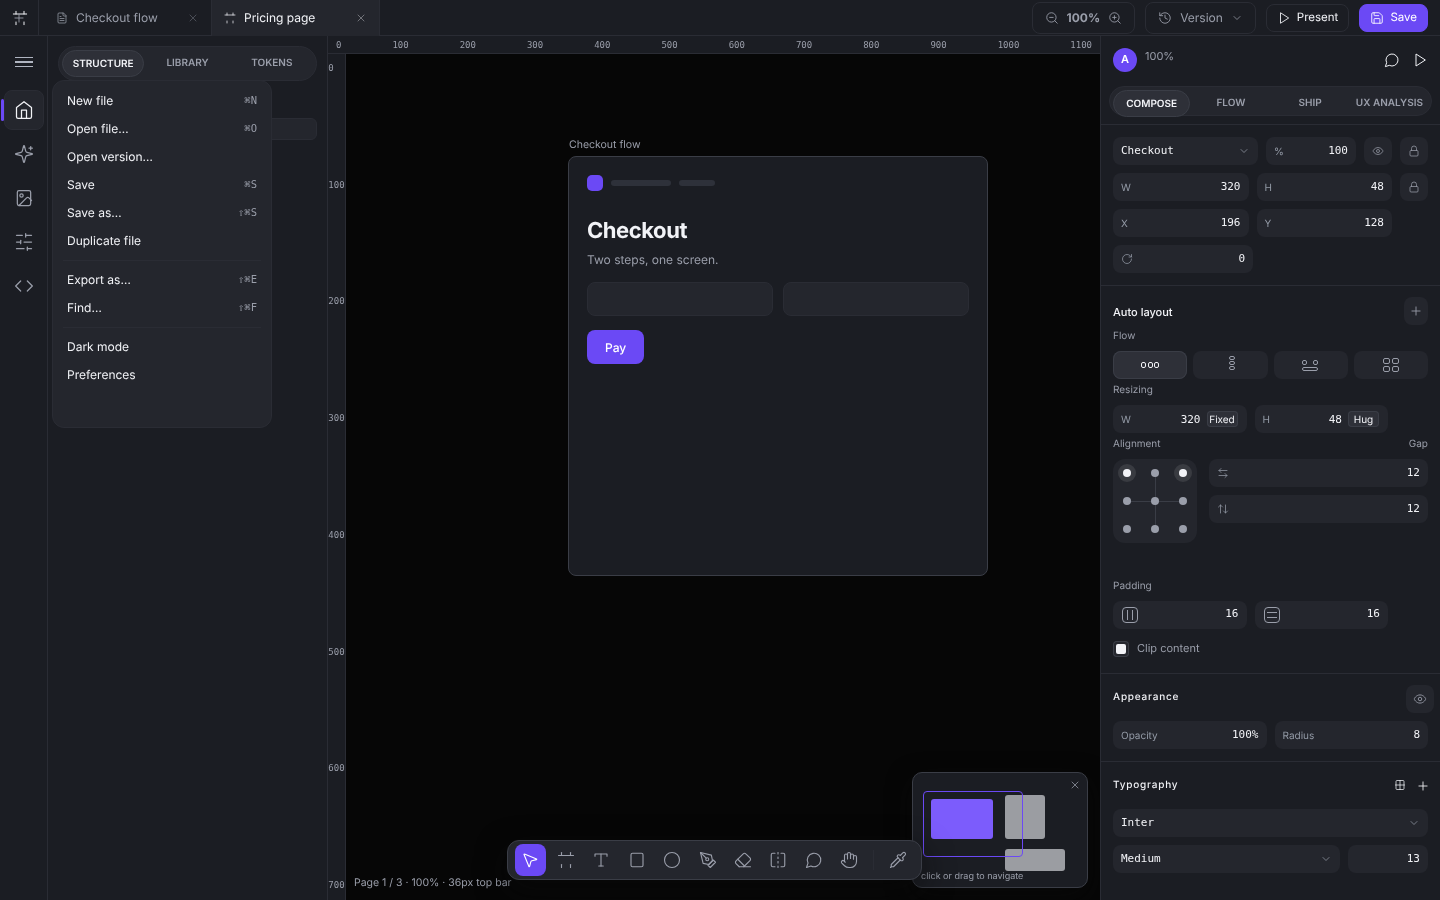
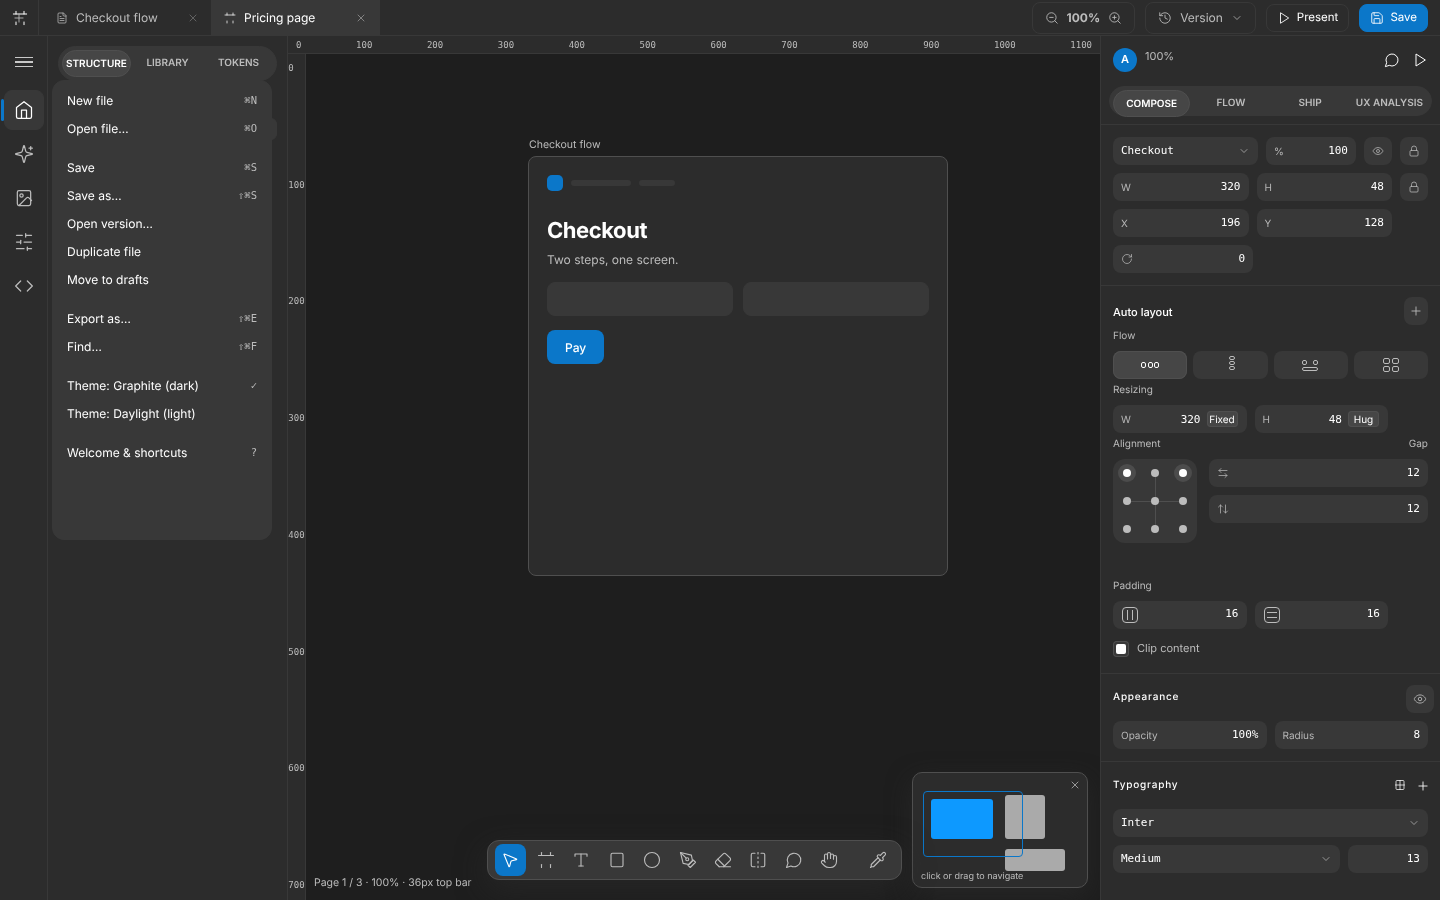
docs(sheet): refresh the 26 verified captures for the Figma palette
shots.mjs re-rendered every screen with the new Graphite chrome and wrote
them as verified (26 screens, 7947 measured boxes, 0 issues), so the
committed pixels match the palette the code now ships instead of the
retired purple.

diff --git a/X-Native/tools/design-sheet/shots.html b/X-Native/tools/design-sheet/shots.html
@@ -28,8 +28,8 @@
     <code>shots.mjs</code> in a real browser at 1440×900, scale 1. These are pixels for the
     same claims <a href="screens.html">Every screen</a> makes.</p>
     <div class="nav-group">Renderer</div>
-    <p class="fine">AppleWebKit/537.36 (KHTML, like Gecko) HeadlessChrome/153.0.8010.0 Safari/537.36<br>captured 2026-09-17 20:34, one file per screen,
-    largest 113 KB.</p>
+    <p class="fine">AppleWebKit/537.36 (KHTML, like Gecko) HeadlessChrome/153.0.8010.0 Safari/537.36<br>captured 2026-09-20 05:21, one file per screen,
+    largest 101 KB.</p>
     <div class="nav-group">Screens</div>
     <a href="#dash-home-grid"><i></i>Home · Grid</a>
     <a href="#dash-home-list"><i></i>Home · List</a>
@@ -172,7 +172,7 @@
       <span class="badge new">shots/editor-structure.png · 1440×900</span>
       <a class="shotlink" href="shots/editor-structure.png">Open PNG</a>
     </div>
-    <p>Full editor chrome: title bar 36, rail 48, left dock 280 (STRUCTURE / LIBRARY / TOKENS), right dock 340, rulers, tool dock 40 tall. The COMPOSE inspector is drawn from paint_design: name + %, W/H, X/Y, rotation, Auto layout, Flow, Resizing, Alignment, Padding, Clip content, Appearance, Typography — fields are filled boxes with no outline until hover, and the value being typed into is ringed.</p>
+    <p>Full editor chrome: title bar 36, rail 48, left dock 240 (STRUCTURE / LIBRARY / TOKENS), right dock 340, rulers, tool dock 40 tall. The COMPOSE inspector is drawn from paint_design: name + %, W/H, X/Y, rotation, Auto layout, Flow, Resizing, Alignment, Padding, Clip content, Appearance, Typography — fields are filled boxes with no outline until hover, and the value being typed into is ringed.</p>
     <p>Three canvas aids ship in this frame: the minimap (bottom-right, ⇧M or its ✕), page sketches in every PAGES row that has content, and ⇧1 fitting the frame to the page content.</p>
     <div class="capture"><img class="shot" src="shots/editor-structure.png" width="1440" height="900" alt="Editor · Structure + canvas at 1440×900"></div>
     <div class="checks"><span>STRUCTURE</span><span>LIBRARY</span><span>TOKENS</span><span>COMPOSE</span><span>minimap</span><span>PAGES</span><span>sketch</span><span>Auto layout</span><span>Resizing</span><span>Alignment</span><span>Padding</span><span>Appearance</span><span>Typography</span></div>
@@ -185,10 +185,10 @@
       <span class="badge new">shots/editor-library.png · 1440×900</span>
       <a class="shotlink" href="shots/editor-library.png">Open PNG</a>
     </div>
-    <p>Left dock on LIBRARY: assets in this file, then linked libraries.</p>
+    <p>Left dock on LIBRARY: the faces the render stack knows (Load Font…) and the libraries this document is linked to, each with its pinned version and a check pill.</p>
     <p>The left tabs are STRUCTURE / LIBRARY / TOKENS — X-Native names its own model (scene graph, not a Figma clone).</p>
     <div class="capture"><img class="shot" src="shots/editor-library.png" width="1440" height="900" alt="Editor · Library at 1440×900"></div>
-    <div class="checks"><span>LIBRARY</span><span>LIBRARIES</span><span>linked</span></div>
+    <div class="checks"><span>LIBRARY</span><span>FONTS</span><span>Load Font…</span><span>LIBRARIES</span><span>check</span></div>
   </section>
   <section class="card" id="editor-tokens">
     <div class="card-h">
@@ -198,10 +198,10 @@
       <span class="badge new">shots/editor-tokens.png · 1440×900</span>
       <a class="shotlink" href="shots/editor-tokens.png">Open PNG</a>
     </div>
-    <p>Left dock on TOKENS: the document variables, grouped by kind.</p>
+    <p>Left dock on TOKENS: what the document already paints with (colours, type scale, spacing), the extract-to-variables action, the four create-kind buttons and every variable with its delete ✕.</p>
     <p>Variable edits route through the undo log; the inspector shows the variable name beside any bound fill.</p>
     <div class="capture"><img class="shot" src="shots/editor-tokens.png" width="1440" height="900" alt="Editor · Tokens at 1440×900"></div>
-    <div class="checks"><span>TOKENS</span><span>color/accent</span><span>undoable</span></div>
+    <div class="checks"><span>TOKENS</span><span>TYPE SCALE</span><span>NEW VARIABLE</span><span>VARIABLES</span></div>
   </section>
   <section class="card" id="editor-flow">
     <div class="card-h">
@@ -328,10 +328,10 @@
       <span class="badge new">shots/editor-app-menu.png · 1440×900</span>
       <a class="shotlink" href="shots/editor-app-menu.png">Open PNG</a>
     </div>
-    <p>The hamburger menu, 220 wide: file actions, export, find, theme, preferences.</p>
+    <p>The hamburger menu, 220 wide: file actions, export, find, the two theme rows, and the welcome card.</p>
     <p>Every row here is a real action; shortcuts are shown only where the app binds them.</p>
     <div class="capture"><img class="shot" src="shots/editor-app-menu.png" width="1440" height="900" alt="App menu at 1440×900"></div>
-    <div class="checks"><span>New file</span><span>Export as…</span><span>Preferences</span></div>
+    <div class="checks"><span>New file</span><span>Export as…</span><span>Theme: Graphite (dark)</span><span>Welcome & shortcuts</span></div>
   </section>
   <section class="card" id="editor-find">
     <div class="card-h">
